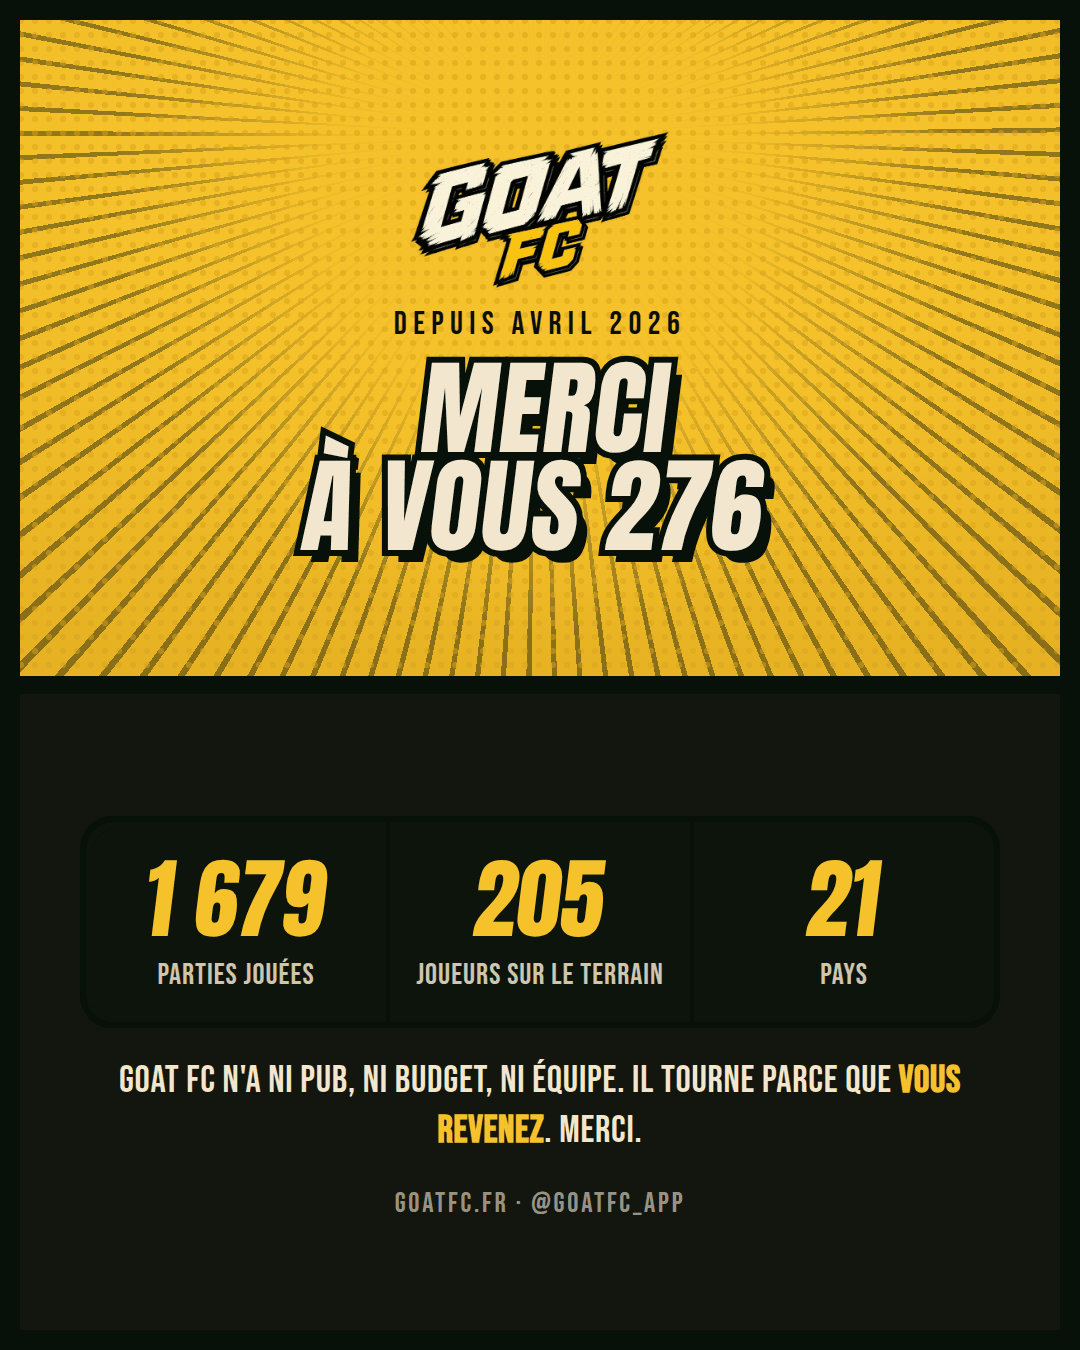
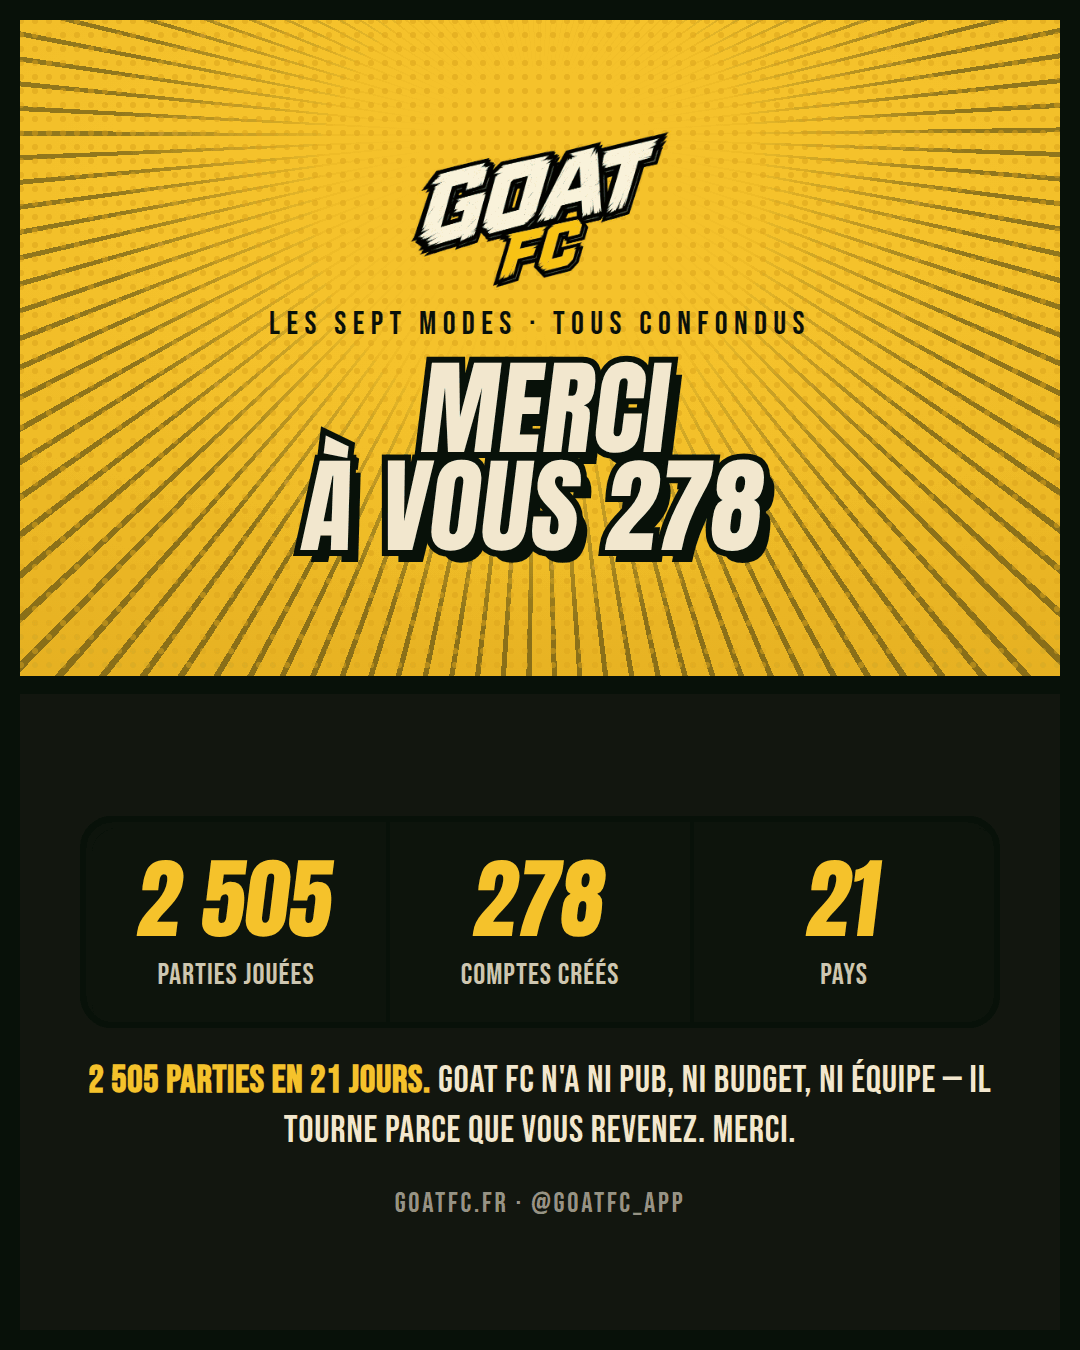
Posts de remerciement : les memes chiffres que le tableau de bord (#621)
Le tableau de bord prive annonce 2 503 parties, les visuels en annoncaient
1 679. Aucun des deux ne mentait — ils ne comptaient pas la meme chose, et
c'est exactement le genre d'ecart qui se decouvre en public.

── DEUX DEFINITIONS, ET DEUX HORLOGES ────────────────────────────────

bb_scores ne recoit que les modes qui CLASSENT un score. La devinette du jour,
Trouve-le-joueur et GOAT Guess n'y ecrivent rien : 1 681 lignes pour trois
modes sur sept. Le tableau de bord, lui, somme bb_events sur les sept modes,
solo et en ligne : 2 505.

Et les deux ne couvrent pas la meme periode. bb_scores court depuis la
premiere partie, le 9 avril. bb_events n'existe que depuis la mise en place du
suivi, le 26 juillet — trois semaines. « 2 505 parties depuis avril » aurait
ete faux de quatre mois.

Le script reprend donc les definitions du tableau de bord, en lisant la liste
des sept modes DANS src/lib/tracking.js plutot qu'en la recopiant : recopiee,
elle divergerait au premier mode ajoute et l'affiche annoncerait moins de
parties que la console.

── CHAQUE CHIFFRE PART AVEC SA PORTEE ────────────────────────────────

Le panneau du post 1 ne porte plus de date au-dessus : ses trois chiffres n'ont
pas la meme horloge, une seule date en rendrait deux fausses. La precision est
dans le pied — « 2 505 parties en 21 jours ».

Le post 2 met la periode dans le sous-titre de CHAQUE ligne, seule facon
honnete de faire tenir sur la meme affiche un chiffre de trois semaines et un
[…]

diff --git a/visuels/annonces/merci/legendes.md b/visuels/annonces/merci/legendes.md
@@ -13,7 +13,9 @@ script — les nombres auront bougé.
 ```
 🙏 MERCI.
 
-Depuis avril 2026, vous êtes 276 à avoir créé un compte sur GOAT FC. 205 d'entre vous ont joué au moins une partie, et ensemble vous en avez enchaîné 1 679, depuis 21 pays.
+Vous êtes 278 à avoir créé un compte sur GOAT FC, depuis 21 pays.
+
+Et en 21 jours de suivi, tous modes confondus, vous avez joué 2 505 parties. 228 d'entre vous sont entrés sur le terrain sur cette seule période.
 
 Aucune pub. Aucun budget. Aucune équipe. GOAT FC tourne parce que vous revenez — et ça, ça ne s'achète pas.
 
@@ -27,10 +29,10 @@ Aucune pub. Aucun budget. Aucune équipe. GOAT FC tourne parce que vous revenez 
 ```
 📊 CE QUE VOUS AVEZ FAIT, EN DÉTAIL.
 
-⚡ 123 parties en une seule journée, le 13 août — le record absolu
-⚔ 292 duels menés jusqu'au bout, deux joueurs face à face
-📅 70 journées avec au moins une partie, sur les 130 écoulées
-🟨 50 grilles GOAT GRID remplies
+⚡ 259 parties en une seule journée, le 14 août — le record absolu
+⚔ 528 parties en ligne : 378 duels et 150 salons
+🏅 1 681 scores enregistrés au classement depuis la toute première partie, en avril 2026
+👥 228 joueurs vus sur le terrain en 21 jours
 
 Chacun de ces chiffres, c'est quelqu'un qui a ouvert l'app sans qu'on le lui demande. Merci.
 
